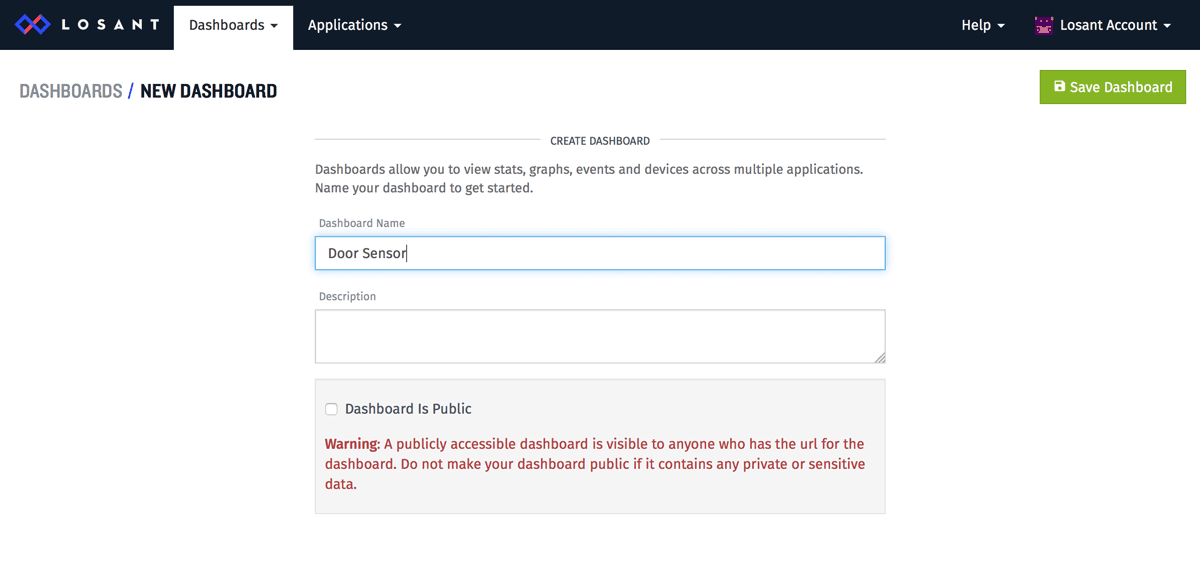
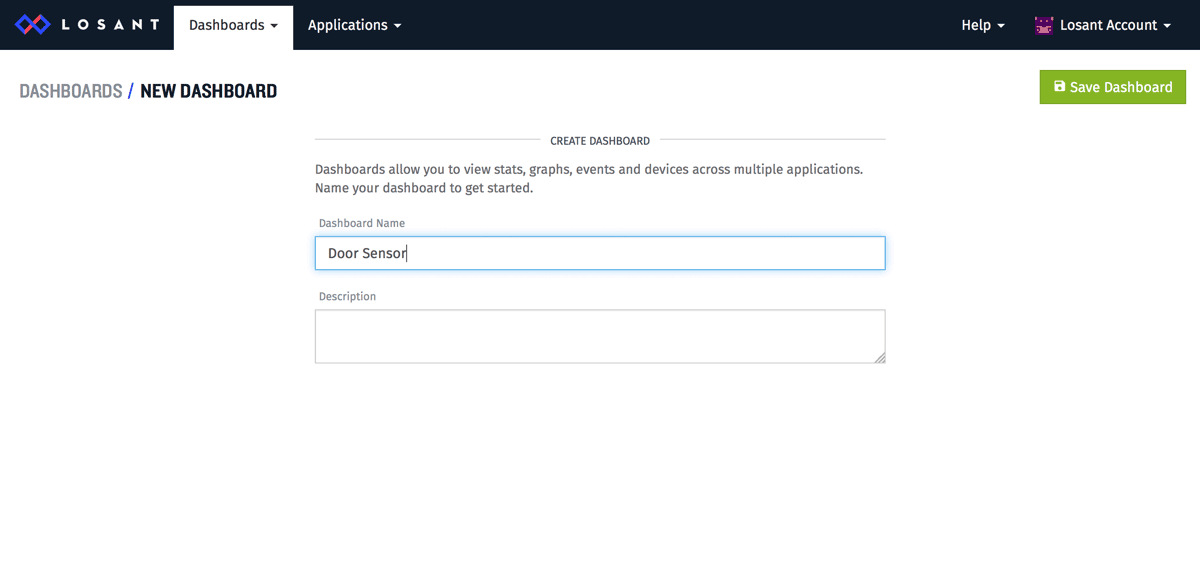
update dashboard access control docs

Changed region(s): [[0.2467, 0.741, 0.74, 0.8645], [0.2775, 0.6792, 0.4008, 0.7101]]

diff --git a/docs/dashboards/overview.md b/docs/dashboards/overview.md
@@ -24,11 +24,17 @@ Dashboards by default will automatically refresh the data every 60 seconds. You 
 
 ![Refresh Button](/images/dashboards/overview-refresh-button.png "Refresh Button")
 
-## Public Dashboards
+## Dashboard Access Control
 
-Dashboards can be made public - which means that anyone who has the URL for a dashboard can see it, regardless of whether that person is logged in to a Losant account.  This is great for sharing public data, but remember that any data exposed in a public dashboard is *public* and is accessible by anyone.  Do not make your dashboard public if it contains any private or sensitive data.  You can control if your dashboard is public on the settings page for the dashboard:
+Dashboards have a three levels of access - private, password protected, and public.  Private
+means that only you (or members of your organization, if it is an organization-owned
+dashboard) can see the dashboard.  Public dashboards can be seen by anyone who has the
+dashboard url, regardless of whether that person is logged in to a Losant account. This is great for sharing public data, but remember that any data exposed in a public dashboard is *public* and is accessible by anyone. Do not make your dashboard public if it contains any private or sensitive data. The third level of access is in between public and private -
+you can add a password to your dashboard, and allow anyone with the url and the password
+to view the dashboard.  This adds some protection to your dashboard, while still making it
+easy to share with people who do not have Losant accounts. You can manage the access control for a dashboard on the settings page for the dashboard:
 
-![Public Checkbox](/images/dashboards/public-checkbox.png "Public Checkbox")
+![Dashboard Access Control](/images/dashboards/dashboard-access-control.png "Dashboard Access Control")
 
 ## Embedding Dashboard Blocks into Other Sites
 

diff --git a/docs/getting-started/losant-iot-dev-kits/moisture-sensor-kit.md b/docs/getting-started/losant-iot-dev-kits/moisture-sensor-kit.md
@@ -211,7 +211,7 @@ In this step, we're going to build a dashboard to visualize the real-time and hi
 
 ![Create Dashboard Menu](/images/getting-started/losant-iot-dev-kits/moisture-sensor/create-dashboard-menu.png "Create Dashboard Menu")
 
-You can name the dashboard anything you'd like. If you'd like to [let other people](/dashboards/overview/#public-dashboards) see your dashboard, you can optionally click the `Dashboard Is Public` checkbox.
+You can name the dashboard anything you'd like. If you'd like to [let other people](/dashboards/overview/#dashboard-access-control) see your dashboard, you can optionally modify the access control level after creating the dashboard.
 
 ![Dashboard Settings](/images/getting-started/losant-iot-dev-kits/moisture-sensor/dashboard-settings.png "Dashboard Settings")
 

diff --git a/docs/getting-started/losant-iot-dev-kits/door-sensor-kit.md b/docs/getting-started/losant-iot-dev-kits/door-sensor-kit.md
@@ -204,7 +204,7 @@ In this step, we're going to build a dashboard to visualize the real-time and hi
 
 ![Create Dashboard Menu](/images/getting-started/losant-iot-dev-kits/door-sensor/create-dashboard-menu.png "Create Dashboard Menu")
 
-You can name the dashboard anything you'd like. If you'd like to [let other people](/dashboards/overview/#public-dashboards) see your dashboard, you can optionally click the `Dashboard Is Public` checkbox.
+You can name the dashboard anything you'd like. If you'd like to [let other people](/dashboards/overview/#dashboard-access-control) see your dashboard, you can optionally modify the access control level after creating the dashboard.
 
 ![Dashboard Settings](/images/getting-started/losant-iot-dev-kits/door-sensor/dashboard-settings.png "Dashboard Settings")
 
